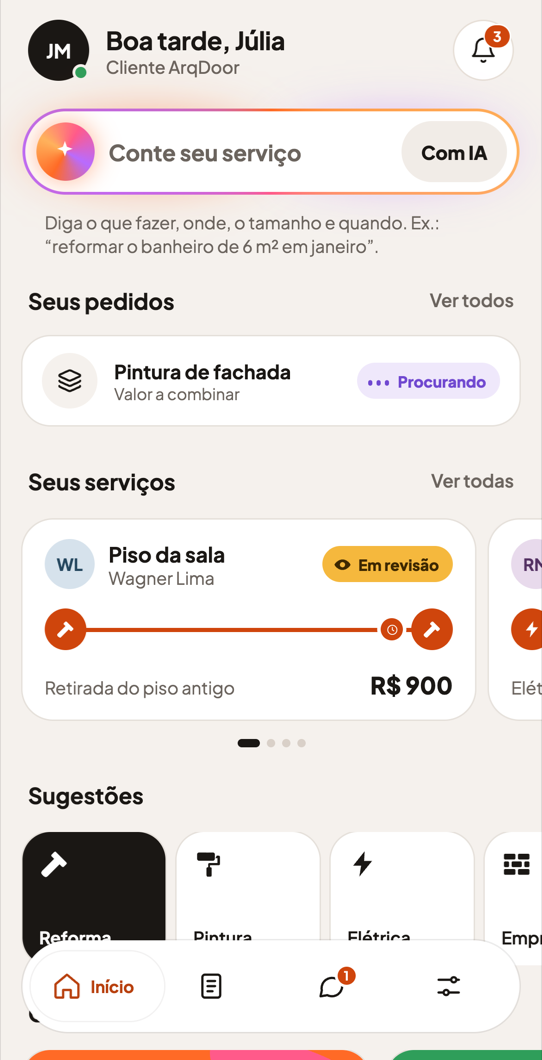
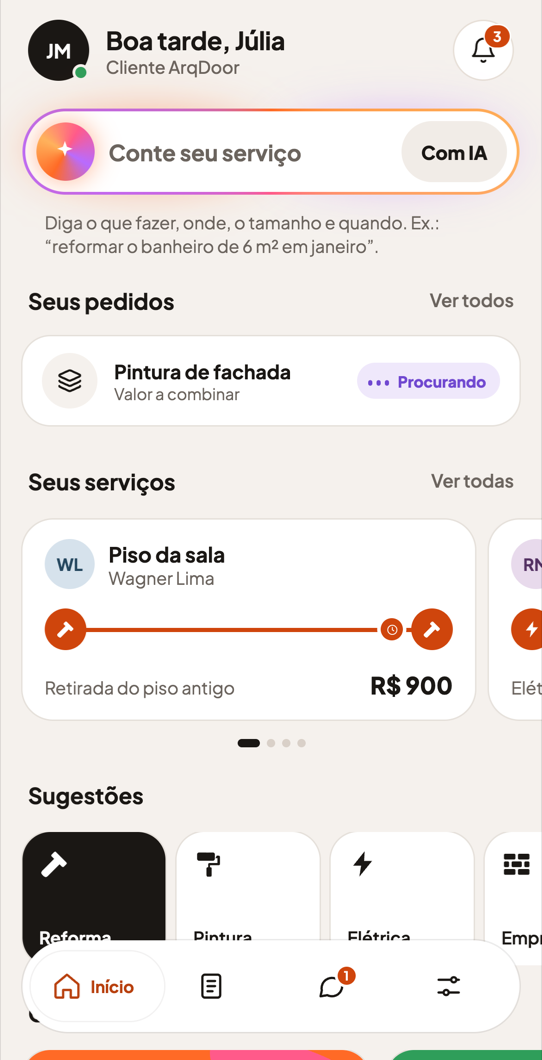
Paginas de qualificacao: ajustes do CMO na copy e nas imagens do app
Intro do cliente: A IA monta o pedido. Beneficio 3 do cliente: Acompanhe cada parte da obra. Titulo final do profissional em duas linhas. Imagens do celular trocadas: profissional sem faturamento e sem impulsionamento, cliente sem selo Em revisao. Envio, planilha e Pixel continuam desligados.

Changed region(s): [[0.5904, 0.4981, 0.8561, 0.5604]]

diff --git a/public/qualificacao-clientes/index.html b/public/qualificacao-clientes/index.html
@@ -190,7 +190,7 @@ body:has(.fim.on) #bar{display:none!important}
   <main id="form">
     <section class="step on" data-step="intro">
       <div class="eyebrow">Vargem Grande Paulista, Cotia, Granja Viana e Itapevi</div>
-      <h1>Conte o que precisa. <em>A&nbsp;IA ajuda no pedido.</em></h1>
+      <h1>Conte o que precisa. <em>A&nbsp;IA monta o&nbsp;pedido.</em></h1>
       <p class="lead">São 4 perguntas rápidas, sem cadastro. No fim, você vê o app com a IA que monta o pedido.</p>
       <div class="chips">
         <span class="chip"><svg width="14" height="14" viewBox="0 0 24 24" fill="none" stroke="currentColor" stroke-width="2"><circle cx="12" cy="13" r="8"/><path d="M12 9v4l2 2M9 2h6"/></svg>cerca de 1 minuto</span>
@@ -251,7 +251,7 @@ body:has(.fim.on) #bar{display:none!important}
         </div>
       </div>
       <p class="lead" id="fim-sub">Você revisa, envia e combina tudo com o profissional pelo app.</p>
-      <ul class="ben" id="fim-ben"><li><svg width="20" height="20" viewBox="0 0 24 24" fill="none" stroke="currentColor" stroke-width="2.6" stroke-linecap="round" stroke-linejoin="round"><path d="M5 12.5l4.5 4.5L19 7.5"/></svg><span>Ache profissionais com facilidade</span></li><li><svg width="20" height="20" viewBox="0 0 24 24" fill="none" stroke="currentColor" stroke-width="2.6" stroke-linecap="round" stroke-linejoin="round"><path d="M5 12.5l4.5 4.5L19 7.5"/></svg><span>Pagamento protegido</span></li><li><svg width="20" height="20" viewBox="0 0 24 24" fill="none" stroke="currentColor" stroke-width="2.6" stroke-linecap="round" stroke-linejoin="round"><path d="M5 12.5l4.5 4.5L19 7.5"/></svg><span>Você paga a cada parte pronta</span></li></ul>
+      <ul class="ben" id="fim-ben"><li><svg width="20" height="20" viewBox="0 0 24 24" fill="none" stroke="currentColor" stroke-width="2.6" stroke-linecap="round" stroke-linejoin="round"><path d="M5 12.5l4.5 4.5L19 7.5"/></svg><span>Ache profissionais com facilidade</span></li><li><svg width="20" height="20" viewBox="0 0 24 24" fill="none" stroke="currentColor" stroke-width="2.6" stroke-linecap="round" stroke-linejoin="round"><path d="M5 12.5l4.5 4.5L19 7.5"/></svg><span>Pagamento protegido</span></li><li><svg width="20" height="20" viewBox="0 0 24 24" fill="none" stroke="currentColor" stroke-width="2.6" stroke-linecap="round" stroke-linejoin="round"><path d="M5 12.5l4.5 4.5L19 7.5"/></svg><span>Acompanhe cada parte da obra</span></li></ul>
       <div class="cta"><a id="baixar-app" href="https://play.google.com/store/apps/details?id=com.arqdoor.app&amp;referrer=utm_source%3Dformulario%26utm_content%3Dcliente_X" target="_blank" rel="noopener"><span class="play"><svg width="18" height="20" viewBox="3 1.5 18.5 21" aria-hidden="true"><path fill="#4285F4" d="M3 1.5 13.4 12 3 22.5z"/><path fill="#34A853" d="M3 1.5 17.2 9.56 13.4 12z"/><path fill="#FBBC04" d="M17.2 9.56 21.5 12 17.2 14.44 13.4 12z"/><path fill="#EA4335" d="M13.4 12 17.2 14.44 3 22.5z"/></svg></span><span class="txt">Baixar o app grátis</span></a></div>
       <p class="micro">Grátis na Google Play. Por enquanto, só para Android.</p>
       <p class="rodape">Pagamentos via Pagar.me</p>
@@ -261,7 +261,7 @@ body:has(.fim.on) #bar{display:none!important}
 <script>
 var LADO = "cliente";
 var P4_TEXTO = {"A": 'Imagina: antes de você começar, o cliente já deixa o dinheiro do serviço protegido no app. Terminou uma parte, você recebe aquela parte. Isso te ajudaria?', "B": 'Quem não te conhece tem medo de pagar adiantado. Se o dinheiro do cliente ficasse protegido no app e saísse pra você a cada parte pronta, isso te ajudaria?'};
-var VARIANTES = {"X": {"titulo": "Conte o que precisa. <em>A&nbsp;IA monta o pedido.</em>", "sub": "Você revisa, envia e combina tudo com o profissional pelo app.", "beneficios": ["Ache profissionais com facilidade", "Pagamento protegido", "Você paga a cada parte pronta"]}, "Y": {"titulo": "Fale do serviço do seu jeito. <em>A&nbsp;IA monta o&nbsp;pedido.</em>", "sub": "Sem saber nome técnico: você revisa e envia em poucos minutos.", "beneficios": ["Ache profissionais com facilidade", "Você paga a cada parte pronta", "Pagamento protegido"]}};
+var VARIANTES = {"X": {"titulo": "Conte o que precisa. <em>A&nbsp;IA monta o pedido.</em>", "sub": "Você revisa, envia e combina tudo com o profissional pelo app.", "beneficios": ["Ache profissionais com facilidade", "Pagamento protegido", "Acompanhe cada parte da obra"]}, "Y": {"titulo": "Fale do serviço do seu jeito. <em>A&nbsp;IA monta o&nbsp;pedido.</em>", "sub": "Sem saber nome técnico: você revisa e envia em poucos minutos.", "beneficios": ["Ache profissionais com facilidade", "Acompanhe cada parte da obra", "Pagamento protegido"]}};
 var PLAY_BASE = 'https://play.google.com/store/apps/details?id=com.arqdoor.app';
 /* Motor do formulario de qualificacao. Sorteio A/B da P4 (?v=A|B forca). ENVIO_LIGADO = false: nada e enviado. */
 (function(){

diff --git a/public/qualificacao-profissionais/index.html b/public/qualificacao-profissionais/index.html
@@ -235,7 +235,7 @@ body:has(.fim.on) #bar{display:none!important}
     <section class="step app fim" data-step="fim">
       <div class="sent2"><svg width="14" height="14" viewBox="0 0 24 24" fill="none" stroke="#2e7d32" stroke-width="2.8" stroke-linecap="round" stroke-linejoin="round"><path d="M5 12.5l4.5 4.5L19 7.5"/></svg>Respostas enviadas. Obrigado!</div>
       <div class="eyebrow">Arqdoor para quem trabalha com obra</div>
-      <h1 id="fim-titulo">Descreva o serviço. <em>A&nbsp;IA monta a proposta.</em></h1>
+      <h1 id="fim-titulo">Descreva o serviço.<br><em>A&nbsp;IA monta a proposta.</em></h1>
       
       <div class="palco" aria-hidden="false">
         <i class="tabua t1"></i><i class="tabua t2"></i><i class="tabua t3"></i>
@@ -262,7 +262,7 @@ body:has(.fim.on) #bar{display:none!important}
 <script>
 var LADO = "profissional";
 var P4_TEXTO = {"A": 'Imagina: antes de você começar, o cliente já deixa o dinheiro do serviço protegido no app. Terminou uma parte, você recebe aquela parte. Isso te ajudaria?', "B": 'Quem não te conhece tem medo de pagar adiantado. Se o dinheiro do cliente ficasse protegido no app e saísse pra você a cada parte pronta, isso te ajudaria?'};
-var VARIANTES = {"A": {"titulo": "Descreva o serviço. <em>A&nbsp;IA monta a proposta.</em>", "sub": "Você revisa, define o seu preço e manda pro cliente. Sem planilha e sem montar PDF na mão.", "beneficios": ["R$ 0 por contato", "Pagamento do cliente protegido", "Você recebe a cada parte pronta"]}, "B": {"titulo": "Descreva o serviço. <em>A&nbsp;IA monta a proposta.</em>", "sub": "Você revisa, define o seu preço e manda uma proposta clara, que passa confiança até pra quem nunca te viu.", "beneficios": ["Você recebe a cada parte pronta", "Pagamento do cliente protegido", "R$ 0 por contato"]}, "C": {"titulo": "Descreva o serviço. <em>A&nbsp;IA monta a proposta.</em>", "sub": "Você revisa, define o seu preço e manda rápido, enquanto o cliente ainda está interessado.", "beneficios": ["R$ 0 por contato", "Você recebe a cada parte pronta", "Pagamento do cliente protegido"]}};
+var VARIANTES = {"A": {"titulo": "Descreva o serviço.<br><em>A&nbsp;IA monta a proposta.</em>", "sub": "Você revisa, define o seu preço e manda pro cliente. Sem planilha e sem montar PDF na mão.", "beneficios": ["R$ 0 por contato", "Pagamento do cliente protegido", "Você recebe a cada parte pronta"]}, "B": {"titulo": "Descreva o serviço.<br><em>A&nbsp;IA monta a proposta.</em>", "sub": "Você revisa, define o seu preço e manda uma proposta clara, que passa confiança até pra quem nunca te viu.", "beneficios": ["Você recebe a cada parte pronta", "Pagamento do cliente protegido", "R$ 0 por contato"]}, "C": {"titulo": "Descreva o serviço.<br><em>A&nbsp;IA monta a proposta.</em>", "sub": "Você revisa, define o seu preço e manda rápido, enquanto o cliente ainda está interessado.", "beneficios": ["R$ 0 por contato", "Você recebe a cada parte pronta", "Pagamento do cliente protegido"]}};
 var PLAY_BASE = 'https://play.google.com/store/apps/details?id=com.arqdoor.app';
 /* Motor do formulario de qualificacao. Sorteio A/B da P4 (?v=A|B forca). ENVIO_LIGADO = false: nada e enviado. */
 (function(){
